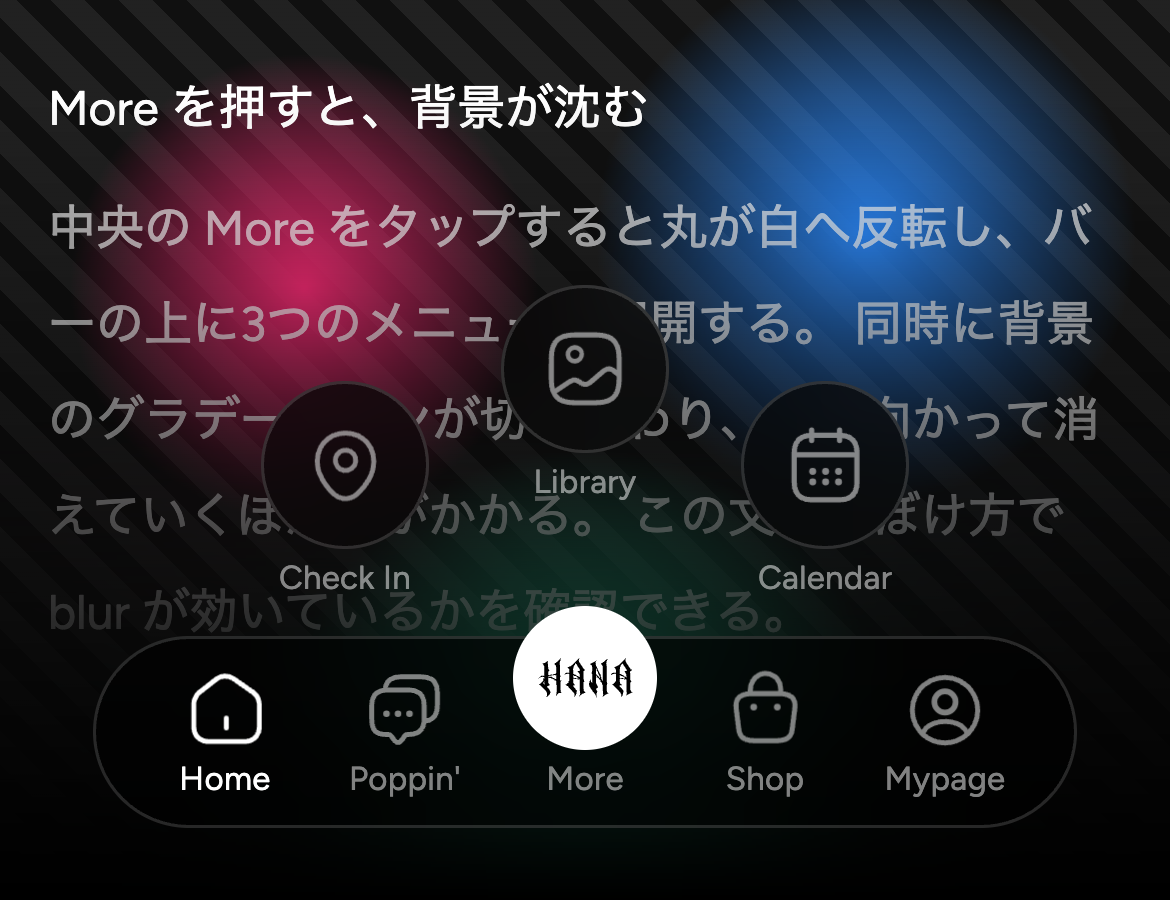
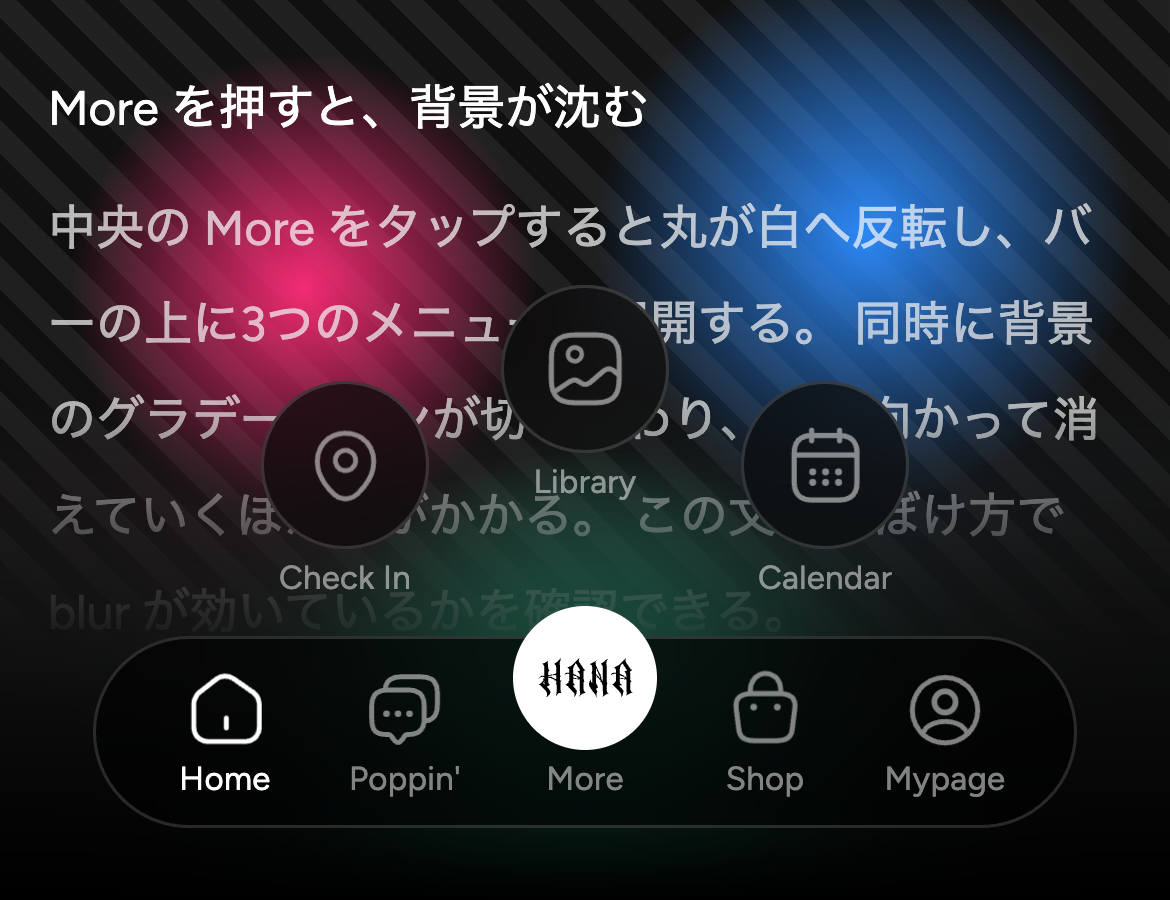
タブバー: 展開時blurが見えなくなっていた問題を修正(黒とblurのカーブを分離)
原因: blur が強くなる位置(70〜100%)では黒グラデが既に濃く、blur が黒に隠れていた。
blurのマスクと黒の濃度が同じ勾配で上がるため、効いている所ほど見えない状態だった。

- blur: 38%(Libraryラベルのすぐ上)-> 70% で全開。黒がまだ薄いうちに効かせる
- 黒グラデ: 上〜中盤を薄く保つカーブへ
  rgba(0,0,0,0) 0% -> .08 40% -> .5 70% -> #000 100%(下端は真っ黒のまま)
  これで 38〜70% に「blurが見える帯」ができる
- Flutter も同じ stops に更新(blurFadeStart .38 / blurFadeEnd .70)

diff --git a/docs/tabbar/handoff.html b/docs/tabbar/handoff.html
@@ -150,10 +150,10 @@
     --tabbar-enter-ease: cubic-bezier(.16,1,.3,1);/* ease-out(expo) */
     --tabbar-bg-blur:    32px;                    /* 展開時の背景blur(Figma Blur/32) */
     /* blur の効き始め/全開位置(背景グラデ領域=高さ268 の中での割合)。
-       40% ≒ 107px = 中央 Library ラベル(121〜136px)のすぐ上。
-       ここから下端にかけて緩やかに強くなる(短い区間で切り替えると急変化に見える) */
-    --tabbar-bg-blur-from: 40%;
-    --tabbar-bg-blur-to:  100%;
+       38% ≒ 102px = 中央 Library ラベル(121〜136px)のすぐ上から効き始め、
+       70% で全開。⚠ 全開位置を下げすぎると、その頃には黒が濃くて blur が見えなくなる */
+    --tabbar-bg-blur-from: 38%;
+    --tabbar-bg-blur-to:   70%;
   }
   .tabbar{
     position:absolute;left:50%;bottom:var(--tabbar-bottom);transform:translateX(-50%);z-index:6;
@@ -289,7 +289,9 @@
   }
   .tabbar-bg::after{    /* Opened の色グラデ(真っ黒)— blurの上に乗る */
     content:"";position:absolute;inset:0;
-    background:linear-gradient(180deg, rgba(0,0,0,0) 0%, #000 100%);
+    /* 黒の濃度カーブ。上〜中盤を薄く保つことで blur が見える帯を作る(下端は真っ黒) */
+    background:linear-gradient(180deg,
+      rgba(0,0,0,0) 0%, rgba(0,0,0,0.08) 40%, rgba(0,0,0,0.5) 70%, #000 100%);
     opacity:0;transition:opacity .3s ease;
   }
   .tabbar-bg.open::before{opacity:0;}
@@ -472,20 +474,20 @@ flutter:
   <table>
     <tr><th>状態</th><th>値</th></tr>
     <tr><td>通常時 <span class="fig">261:414</span></td><td><code>linear-gradient(180deg, rgba(0,0,0,0) 52.404%, rgba(0,0,0,0.6) 100%)</code> / <b>blur なし</b></td></tr>
-    <tr><td>展開時 <span class="fig">316:1059</span></td><td><code>linear-gradient(180deg, rgba(0,0,0,0) 0%, #000 100%)</code> (<b>真っ黒</b>)+ <b>background blur 32</b>(40%地点から下端へ緩やかに / 下記)</td></tr>
+    <tr><td>展開時 <span class="fig">316:1059</span></td><td><code>linear-gradient(180deg, rgba(0,0,0,0) 0%, #000 100%)</code> (<b>真っ黒</b>)+ <b>background blur 32</b>(38%→70%で緩やかに / 下記)</td></tr>
     <tr><td>切替</td><td>色グラデは opacity クロスフェード <b>0.3s ease</b> / blur は<b>半径 0 → 32 をアニメーション</b></td></tr>
     <tr><td>重なり順</td><td>コンテンツ &lt; <b>①通常グラデ → ②blur層 → ③展開グラデ</b> &lt; スクリム &lt; バー/メニュー</td></tr>
   </table>
 
   <div class="warn"><b>展開時の blur は「上に向かって透明になる blur」。</b>
   Figma の background-blur は<b>レイヤー自身のアルファで変調される</b>ため、グラデが透明な
-  上側では blur も効かない。立ち上がりが短いと境界が線に見えて急変化するため、<b>中央 Library ラベルのすぐ上(領域の 40%)から下端にかけて緩やかに強くする</b>。
+  上側では blur も効かない。立ち上がりが短いと境界が線に見えて急変化するため、<b>中央 Library ラベルのすぐ上(領域の 38%)から 70% にかけて緩やかに強くする</b>。全開位置を下げすぎると、その頃には黒が濃くて blur が見えなくなるので注意。
   一様な全面 blur にしないこと。
   <br><br>
   実装:<br>
   ・Flutter → blur 層を <code>ShaderMask</code>(<code>BlendMode.dstIn</code> + 縦グラデ
   transparent→black)で抜く。<code>TabBarBg260726</code> に実装済み。<br>
-  ・CSS → blur 層に <code>mask-image: linear-gradient(180deg, transparent 0%, transparent 40%, #000 100%)</code>(位置は <code>--tabbar-bg-blur-from</code> / <code>--tabbar-bg-blur-to</code>)。<br>
+  ・CSS → blur 層に <code>mask-image: linear-gradient(180deg, transparent 0%, transparent 38%, #000 70%)</code>(位置は <code>--tabbar-bg-blur-from</code> / <code>--tabbar-bg-blur-to</code>)。<br>
   ・フェードは <b>opacity ではなく blur 半径(sigma)をアニメーション</b>させる
   (opacity を動かすと合成レイヤー化して blur が一時的に消える)。</div>
 

diff --git a/docs/tabbar/index.html b/docs/tabbar/index.html
@@ -153,10 +153,10 @@
     --tabbar-enter-ease: cubic-bezier(.16,1,.3,1);/* ease-out(expo) */
     --tabbar-bg-blur:    32px;                    /* 展開時の背景blur(Figma Blur/32) */
     /* blur の効き始め/全開位置(背景グラデ領域=高さ268 の中での割合)。
-       40% ≒ 107px = 中央 Library ラベル(121〜136px)のすぐ上。
-       ここから下端にかけて緩やかに強くなる(短い区間で切り替えると急変化に見える) */
-    --tabbar-bg-blur-from: 40%;
-    --tabbar-bg-blur-to:  100%;
+       38% ≒ 102px = 中央 Library ラベル(121〜136px)のすぐ上から効き始め、
+       70% で全開。⚠ 全開位置を下げすぎると、その頃には黒が濃くて blur が見えなくなる */
+    --tabbar-bg-blur-from: 38%;
+    --tabbar-bg-blur-to:   70%;
   }
   .tabbar{
     position:absolute;left:50%;bottom:var(--tabbar-bottom);transform:translateX(-50%);z-index:6;
@@ -292,7 +292,9 @@
   }
   .tabbar-bg::after{    /* Opened の色グラデ(真っ黒)— blurの上に乗る */
     content:"";position:absolute;inset:0;
-    background:linear-gradient(180deg, rgba(0,0,0,0) 0%, #000 100%);
+    /* 黒の濃度カーブ。上〜中盤を薄く保つことで blur が見える帯を作る(下端は真っ黒) */
+    background:linear-gradient(180deg,
+      rgba(0,0,0,0) 0%, rgba(0,0,0,0.08) 40%, rgba(0,0,0,0.5) 70%, #000 100%);
     opacity:0;transition:opacity .3s ease;
   }
   .tabbar-bg.open::before{opacity:0;}

diff --git a/docs/tabbar/dist/tabbar.css b/docs/tabbar/dist/tabbar.css
@@ -29,10 +29,10 @@
     --tabbar-enter-ease: cubic-bezier(.16,1,.3,1);/* ease-out(expo) */
     --tabbar-bg-blur:    32px;                    /* 展開時の背景blur(Figma Blur/32) */
     /* blur の効き始め/全開位置(背景グラデ領域=高さ268 の中での割合)。
-       40% ≒ 107px = 中央 Library ラベル(121〜136px)のすぐ上。
-       ここから下端にかけて緩やかに強くなる(短い区間で切り替えると急変化に見える) */
-    --tabbar-bg-blur-from: 40%;
-    --tabbar-bg-blur-to:  100%;
+       38% ≒ 102px = 中央 Library ラベル(121〜136px)のすぐ上から効き始め、
+       70% で全開。⚠ 全開位置を下げすぎると、その頃には黒が濃くて blur が見えなくなる */
+    --tabbar-bg-blur-from: 38%;
+    --tabbar-bg-blur-to:   70%;
   }
   .tabbar{
     position:absolute;left:50%;bottom:var(--tabbar-bottom);transform:translateX(-50%);z-index:6;
@@ -168,7 +168,9 @@
   }
   .tabbar-bg::after{    /* Opened の色グラデ(真っ黒)— blurの上に乗る */
     content:"";position:absolute;inset:0;
-    background:linear-gradient(180deg, rgba(0,0,0,0) 0%, #000 100%);
+    /* 黒の濃度カーブ。上〜中盤を薄く保つことで blur が見える帯を作る(下端は真っ黒) */
+    background:linear-gradient(180deg,
+      rgba(0,0,0,0) 0%, rgba(0,0,0,0.08) 40%, rgba(0,0,0,0.5) 70%, #000 100%);
     opacity:0;transition:opacity .3s ease;
   }
   .tabbar-bg.open::before{opacity:0;}

diff --git a/docs/tabbar/assets/tab_bar_260726.dart b/docs/tabbar/assets/tab_bar_260726.dart
@@ -612,7 +612,9 @@ class TabBarBg260726 extends StatelessWidget {
   static const double blurSigma = 32;
   /// blur の効き始め位置(0〜1)。0.4 ≒ 中央 Library ラベルのすぐ上。
   /// ここから下端へ向けて緩やかに強くなる(短い区間だと急変化に見える)。
-  static const double blurFadeStart = 0.4;
+  static const double blurFadeStart = 0.38;
+  /// blur が全開になる位置。下げすぎると黒に隠れて blur が見えなくなる。
+  static const double blurFadeEnd = 0.70;
   static const Duration duration = Duration(milliseconds: 300);
 
   @override
@@ -652,8 +654,9 @@ class TabBarBg260726 extends StatelessWidget {
                   shaderCallback: (rect) => const LinearGradient(
                     begin: Alignment.topCenter,
                     end: Alignment.bottomCenter,
-                    stops: [0, blurFadeStart, 1],
-                    colors: [Color(0x00000000), Color(0x00000000), Color(0xFF000000)],
+                    stops: [0, blurFadeStart, blurFadeEnd, 1],
+                    colors: [Color(0x00000000), Color(0x00000000),
+                             Color(0xFF000000), Color(0xFF000000)],
                   ).createShader(rect),
                   child: ClipRect(
                     child: BackdropFilter(
